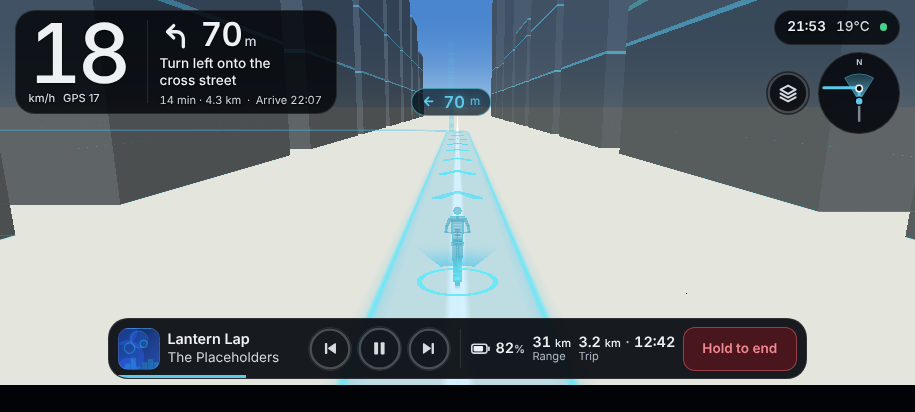
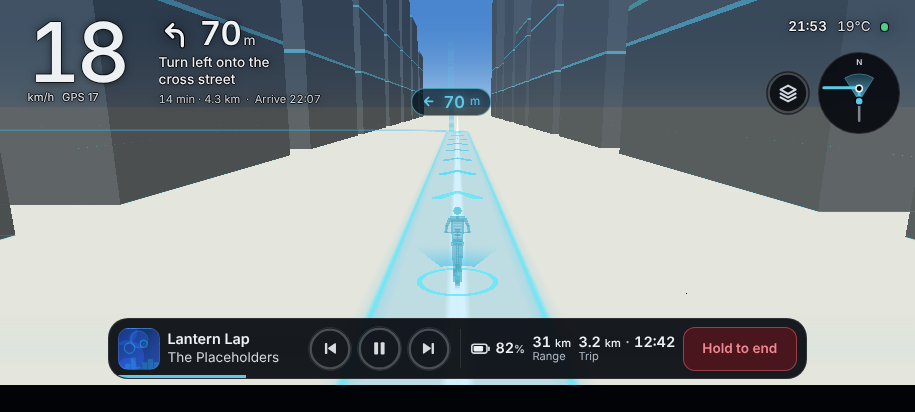
docs: describe the plate free top HUD, the shadow cap and the contrast numbers, re-shoot the HUD previews

Changed region(s): [[0.0, 0.0, 0.3672, 0.2913], [0.8262, 0.0, 1.0, 0.1165], [0.4896, 0.6408, 0.5202, 0.6699]]

diff --git a/docs/DESIGN_SYSTEM.md b/docs/DESIGN_SYSTEM.md
@@ -108,14 +108,19 @@ The scene can be a bright blue sky, sunlit pale ground or a dark street, and it 
 |---|---|---|---|
 | `plate.night` | `--wl-plate-night` | `0.74` | Opacity of a text plate in the dark |
 | `plate.day` | `--wl-plate-day` | `0.84` | Opacity in full daylight |
-| `shadow.text` | `--wl-shadow-text` | `0 0 1px rgba(0, 0, 0, 0.9), 0 1px 2px rgba(0, 0, 0, 0.6)` | A tight edge on glyphs, two pixels at most |
+| `shadow.text` | `--wl-shadow-text` | `0 0 1px rgba(0, 0, 0, 0.9), 0 1px 2px rgba(0, 0, 0, 0.6)` | A tight edge on the glyphs of text that sits on a plate, two pixels at most |
+| `shadow.scene` | `--wl-shadow-scene` | `1px 0 0`, `-1px 0 0`, `0 1px 0` and `0 -1px 0` at `rgba(0, 0, 0, 0.72)`, then `0 0 8px rgba(0, 0, 0, 0.55)` | The only aid on the top left navigation text and the top right status text, as a `text-shadow` |
+| `shadow.sceneIcon` | `--wl-shadow-scene-icon` | the same five layers as `drop-shadow()` filters | The same shadow for the turn arrow, the offline note icon and the connectivity dot |
 
-- **Plates** (`.wl-plate`). Each group of text over the scene sits on its own small plate of dark glass (`night950`), sized to the text: the speed and turn card top left, the status chip top right, the start caption, the map note and the dev overlay. The map settings button also sits on a plate so its icon reads on a bright sky. The opacity is `night + (day - night) * --wl-daylight`, one flat fill with a hairline border, no blur and no gradient, so it costs almost nothing on a mid range phone. The plate is a little more solid in sunlight and a little lighter at night.
+- **No plate on the top two groups.** The speed and turn text (top left) and the time, temperature and dot (top right) are bare on the scene: no plate, fill, border, box shadow, backdrop filter or gradient, and their sizes and spacing are unchanged. A shadow that follows the glyphs only keeps them readable. `.wl-hud-shadow` puts `shadow.scene` on the text and `.wl-hud-icon` puts `shadow.sceneIcon` on the arrow, the note icon and the dot. The shadow has two parts: a 1 pixel dark edge on four sides with no blur (a hairline outline) and one soft 8 pixel halo. It is a shadow, never a backdrop.
+- **Why the 1 pixel edge.** A soft halo on its own is almost invisible on thin strokes over a white sky: the first draft, a 1 pixel close shadow plus an 8 pixel halo at 0.65 and 0.55 opacity (the usual "subtle blurred shadow"), measures only 1.0:1 to 1.7:1 for the text colours at the glyph edge over pure white, because a halo that wide spreads a stroke 1 pixel across into a few percent of black. The 1 pixel edge is the least intrusive fix that reaches AA (it is at most a 1 pixel text stroke, drawn as four hard shadow offsets so it does not depend on `paint-order` support), and the soft halo stays as the subtle part. Over dark scenes the shadow is invisible and cannot lower contrast.
+- **Cap.** Every local shadow layer is capped at a 12 pixel blur radius, a 2 pixel offset and 0.9 opacity (`no-screen-darkening.test.ts` fails above any of them, and there is a test that proves it fails). The layers are in the tokens only, and the CSS rules refer to them by variable so a literal cannot slip past the cap.
+- **Plates** (`.wl-plate`). The few remaining groups of text over the scene sit on their own small plate of dark glass (`night950`), sized to the text: the start caption, the map note and the dev overlay. The map settings button also sits on a plate so its icon reads on a bright sky. The opacity is `night + (day - night) * --wl-daylight`, one flat fill with a hairline border, no blur and no gradient, so it costs almost nothing on a mid range phone. The plate is a little more solid in sunlight and a little lighter at night.
 - **Glass** (`.wl-glass`). The dock, the minimap and the map settings sheet keep their own glass fill, which covers only the panel itself.
-- **Text edge** (`.wl-hud-text`). A tight dark edge on the glyphs of plate text keeps them crisp in glare. It is never used as a backdrop.
-- **Adaptive colour.** Text over the scene uses only `text`, `text-secondary`, `caution` and `cyan`. Muted grey is for panels only. The turn arrow turns cyan when the turn is imminent.
-- **Contrast.** The plate's floor is chosen so that every text colour allowed on it passes WCAG AA over pure white, which is brighter than anything the scene can draw. `apps/web/src/hud/readability.test.ts` checks every text colour at daylight 0, 0.25, 0.5, 0.75 and 1 against pure white, pure black, the day palette and sky, a pale sunlit photographic ground (#e8e4d8, an assumed worst case, not measured on a real Google tile screenshot), the night palette and the bright hologram cyan, and the dock text on night and day glass. The layout check (`apps/web/scripts/layout-check.mjs`) does the same in Chrome with the colours the browser computed, while riding, at five sizes. The lowest ratios (night plate over pure white) are: `text` 8.2:1, `text-secondary` 6.5:1, `caution` 4.7:1 and `cyan` 4.8:1. Over pure black they are all above 10:1.
-- **Guard.** `apps/web/src/hud/no-screen-darkening.test.ts` fails if a scrim, a screen wide gradient, a full screen fill, a vignette or a wide text shadow comes back, in the CSS, the components, the tokens or the scene's post process. The layout check also fails if anything but the scene, the credits strip or an opened dialog paints more than 20 percent of the screen or a band across it.
+- **Adaptive colour.** Text over the scene uses only `text`, `text-secondary`, `caution` and `cyan`, and stays bright: muted grey is for panels only. The turn arrow turns cyan when the turn is imminent.
+- **Contrast model.** There is no standard for the contrast of a halo, so `apps/web/src/hud/readability.ts` (`glyphBackdrop`) models it conservatively. A glyph is one isolated stroke as thin as the thinnest stroke of that text (the smallest font size times a stem of about 0.1 em), every shadow layer is that stroke moved by its offset and blurred by a Gaussian of half its blur radius, and the pixel measured is the one touching the glyph, half a pixel outside its edge, on the worst of its four sides. Real text has neighbouring strokes that add to a halo, so this is a lower bound. Small text must reach 4.5:1 and large text (the speed and the turn distance) 3:1.
+- **Contrast numbers** (26 November 2026, modelled, WCAG ratio at the glyph edge, the weakest text in each colour group). Over pure white: primary text 8.7:1 (speed digits 10.1:1), secondary text 6.9:1, amber 5.0:1, the cyan arrow 5.4:1. Over a light sky (`#bcd9ee`, the noon horizon): 10.4:1, 8.2:1, 6.0:1 and 6.4:1. Over dark scenes (the night horizon): 17.9:1, 14.3:1, 10.4:1 and 10.6:1, and over pure black 18.5:1, 14.8:1, 10.7:1 and 10.9:1. The pale sunlit ground (`#e8e4d8`) sits between white and the light sky. `readability.test.ts` checks every text colour against pure white, the pale ground, the day palette and sky, the night palette, pure black and the hologram cyan, for the text shadow and the icon filter. The layout check (`apps/web/scripts/layout-check.mjs`) repeats the model in Chrome with the computed colours, font sizes and shadow values while riding at five sizes, and reports the lowest: speed digits 10.5:1 over white, 12.0:1 over the light sky and 18.5:1 over black, the weakest text (`km/h`, GPS speed, time left, arrival) 6.9, 8.2 and 14.8. Text still on a plate is checked at five daylight levels as before. The ground samples are assumed worst cases, and the whole model has not been checked on a real Google tile screenshot or in direct sun on a phone.
+- **Guard.** `apps/web/src/hud/no-screen-darkening.test.ts` fails if a scrim, a screen wide gradient, a full screen fill or a vignette comes back, in the CSS, the components, the tokens or the scene's post process, if a local shadow goes past the cap, if a `backdrop-filter` or a box shadow appears on the HUD, or if a plate, fill or border returns on the navigation or status components. The layout check also fails if anything but the scene, the credits strip or an opened dialog paints more than 20 percent of the screen or a band across it, or if the navigation or status group paints a fill, border, box shadow or backdrop filter.
 
 ## Futuristic look
 
@@ -161,8 +166,8 @@ Built in `apps/web/src/app/ride/page.tsx`, with the layout in `apps/web/src/hud/
 
 | Area | Content |
 |---|---|
-| Top left, one plate | The speed and the next turn on one small plate of dark glass, sized to the text. Left: the vehicle speed (the biggest number, digits about 15 percent of the screen height), and under it, small: `km/h` and `GPS 17`, the GPS speed shown separately, and the amber telemetry note when it applies. A hairline divider. Right: the turn arrow (cyan when the turn is imminent) and the distance to the turn, the street instruction, then one quiet line with the time and distance left and `Arrive 14:35` |
-| Top right | A status chip on a plate: local time, mock temperature and a small connectivity dot (green online, amber offline). Under it, the map settings button on its own plate beside a round plain SVG minimap about 82 px across at 915 by 412: route line, position dot and a heading cone. No tiles and no map data. The dev overlay and the quiet map note sit under the minimap and stop above the centre row |
+| Top left, bare text | The speed and the next turn as bare text on the scene, with a local glyph shadow and no plate. Left: the vehicle speed (the biggest number, digits about 15 percent of the screen height), and under it, small: `km/h` and `GPS 17`, the GPS speed shown separately, and the amber telemetry note when it applies. Right: the turn arrow (cyan when the turn is imminent) and the distance to the turn, the street instruction, then one quiet line with the time and distance left and `Arrive 14:35` |
+| Top right | The status as bare text with a glyph shadow and no plate: local time, mock temperature and a small connectivity dot (green online, amber offline). Under it, the map settings button on its own plate beside a round plain SVG minimap about 82 px across at 915 by 412: route line, position dot and a heading cone. No tiles and no map data. The dev overlay and the quiet map note sit under the minimap and stop above the centre row |
 | Centre | Clear for the 3D scene, with nothing drawn over it. The start prompt (the Start trip button, a "Light follows my clock" or "Real sun at the route" switch beside it, and a caption) appears low in the clear middle before a trip, and the dev controls (development and `?dev=1` only) sit below it. They are always one row of 44 px buttons, so nothing overlaps at any landscape size, and the Time button swaps that row for the time override page (Back, Live, Dawn, Noon, Sunset, Night, a time slider and a date field) |
 | Dock | One joined glass dock, 20 px corners, about 15 percent of the screen height, sized to its content and centred at the bottom with margin on both sides (never wider than 80 percent of the screen, or 42rem on small phones where the content needs it), with a hairline divider between two halves. Left: artwork tile, title and artist, previous, play or pause, next, and a thin progress line along the bottom of the half. Right: battery icon and percent, range, trip distance and time (`3.2 km · 12:40`), and End trip at the far right |
 | Credits strip | The reserved credits row below the dock: a darker band that nothing overlaps, holds the scene's attributions: the Google logo, data credits and Cesium ion logo with CesiumJS, or OpenFreeMap, OpenMapTiles and OpenStreetMap contributors with the fallback. The scene renders them into the strip and the HUD never covers it. Its minimum height follows the screen height (`clamp(1.5rem, 6.5dvh, 2rem)`) and grows with its content. A faint placeholder label shows only in development or with `?dev=1`, until the scene is ready |
@@ -175,19 +180,19 @@ Rules for this screen:
 - **Speed guard.** Above 8 km/h the media controls and End trip need a hold (0.6 s, and 0.9 s for End trip). The guard switches off below 5 km/h.
 - **Hold feedback that does not need animation.** While the guard is on, each media button shows a ring track that says a hold is needed. While a button is held the ring fills over the hold time, the button takes a cyan edge and a stronger fill, and the artist line says "Keep holding". End trip says "Hold to end", grows a red fill while held, and says "Keep holding". With reduced motion the ring and fill skip the growth and show complete as soon as the hold starts, so the filled state and the caption are still there.
 - **Missing data shows dashes**, never zero. An amber note with a small icon under the speed says when GPS is standing in for the scooter, and the GPS speed label turns amber.
-- **Small glass, never a backdrop.** The speed and turn card, the status chip and the map settings button sit on plates sized to their content, and the dock, minimap and dev controls are glass panels. Nothing paints across the screen apart from the credits strip.
+- **Small glass, never a backdrop.** The speed and turn text and the status text are bare with a shadow that follows the glyphs. The map settings button sits on a plate sized to its content, and the dock, minimap and dev controls are glass panels. Nothing paints across the screen apart from the credits strip.
 - **Minimap.** Plain drawn route only. While riding it follows the rider with the heading up, shows a clear heading cone (a 34 unit wedge opening 32 degrees either side, a gradient fill from 80 to 20 percent cyan with an outline), and a small N on the rim. Before and after a trip it shows the whole route inside the circle, north up.
-- **Contrast.** The top text sits on its plate (see "Text on the scene") and passes AA over pure white. The dock is more solid in daylight and fades smoothly with the sun. Sunlight readability on a real screen still needs a check on the phone.
+- **Contrast.** The top text carries a glyph shadow (see "Text on the scene") and passes AA at the glyph edge over pure white, in the model. The dock is more solid in daylight and fades smoothly with the sun. Sunlight readability on a real screen still needs a check on the phone.
 - **Fluid type.** Sizes use `clamp` with `dvh` and `vw` (see Typography). The dock values also scale with width, because the dock is the tightest row. The dock is sized to its content. The track title block has a fixed fluid width (about 15 percent of the screen width, at least 7.75 rem), so the dock does not change width from track to track, and at 667 by 375 the longest mock title still fits whole and a long artist line ends in an ellipsis. Neither pushes the media buttons or End trip off the screen, and nothing else clips.
-- **Motion.** The plates and the dock settle in when the screen appears (`.wl-enter`: a 360 ms fade and a 6 pixel rise, the dock 80 ms later), and the turn arrow fades to cyan when the turn is imminent.
+- **Motion.** The top groups and the dock settle in when the screen appears (`.wl-enter`: a 360 ms fade and a 6 pixel rise, the dock 80 ms later), and the turn arrow fades to cyan when the turn is imminent.
 - **Reduced motion.** See hold feedback above. The offline pulse and the entrance stop. Nothing else on this screen animates.
 - **No speed limit sign yet.** There is no road speed limit data in milestone 1 (speed zones are phase 4, out of scope), so no sign is drawn and none is invented. A small sign under the speed is a later item for when speed zone data exists.
 - **Copy.** Sentence case, no emoji, no em dashes. Speed in km/h, distances under 1 km in metres rounded to 10 m, longer ones in km with one decimal, 24 hour time.
 - **Variants.** `short:` is for screens up to 520 px tall and `tight:` is for up to 400 px tall. The riding screen no longer needs them because its sizes are fluid, and they remain for other screens.
 
-Screenshots of the screen, taken from a production build with headless Chrome, are in [`docs/images/`](images/): [riding at 915 by 412](images/ride-915x412-riding.png), [start at 915 by 412](images/ride-915x412-start.png), [telemetry lost at 915 by 412](images/ride-915x412-fallback.png) (taken with `?dev=1`, so the dev controls show) and [riding at 1280 by 720](images/ride-1280x720-riding.png) and [the trip summary at 915 by 412](images/ride-915x412-summary.png). The same screen with the dev time override at [dawn](images/ride-915x412-dawn.png), [noon](images/ride-915x412-noon.png), [sunset](images/ride-915x412-sunset.png) and [night](images/ride-915x412-night.png), taken at 915 by 412 with `?dev=1&time=dawn` and so on, for Berlin on 25 November. Day shows the dock at its most solid and a bluer scene, sunset and dawn show the warm glow at the horizon and a mid fill, and night is the darkest with the most see-through dock. These were re-shot for the HUD redesign on 26 November 2026. In headless Chrome the fallback map's tiles do not load, so the scene there is the sky, the light and the hologram only.
+Screenshots of the screen, taken from a production build with headless Chrome, are in [`docs/images/`](images/): [riding at 915 by 412](images/ride-915x412-riding.png), [start at 915 by 412](images/ride-915x412-start.png), [telemetry lost at 915 by 412](images/ride-915x412-fallback.png) (taken with `?dev=1`, so the dev controls show) and [riding at 1280 by 720](images/ride-1280x720-riding.png) and [the trip summary at 915 by 412](images/ride-915x412-summary.png). The same screen with the dev time override at [dawn](images/ride-915x412-dawn.png), [noon](images/ride-915x412-noon.png), [sunset](images/ride-915x412-sunset.png) and [night](images/ride-915x412-night.png), taken at 915 by 412 with `?dev=1&time=dawn` and so on, for Berlin on 25 November. Day shows the dock at its most solid and a bluer scene, sunset and dawn show the warm glow at the horizon and a mid fill, and night is the darkest with the most see-through dock. These were re-shot for the HUD redesign on 26 November 2026, before the top left and top right groups lost their plates, so they still show those two plates. The preview shots below are the current look. In headless Chrome the fallback map's tiles do not load, so the scene there is the sky, the light and the hologram only.
 
-The redesigned HUD over the procedural preview scene (`/dev/holo-preview?dev=1&hud=1&engine=cesium|maplibre&time=...&along=110`, no Google tiles and no network), with the real `HudFrame` and panels and fixed mock values: CesiumJS at [noon](images/hud-preview-cesium-noon.png), [sunset](images/hud-preview-cesium-sunset.png) and [night](images/hud-preview-cesium-night.png), the same noon with [the effect off](images/hud-preview-cesium-noon-fx-off.png), and MapLibre at [noon](images/hud-preview-maplibre-noon.png), [sunset](images/hud-preview-maplibre-sunset.png) and [night](images/hud-preview-maplibre-night.png). The pale noon buildings are the worst case for the top text, and the scene stays clear to every edge.
+The redesigned HUD over the procedural preview scene (`/dev/holo-preview?dev=1&hud=1&engine=cesium|maplibre&time=...&along=110`, no Google tiles and no network), with the real `HudFrame` and panels and fixed mock values: CesiumJS at [noon](images/hud-preview-cesium-noon.png), [sunset](images/hud-preview-cesium-sunset.png) and [night](images/hud-preview-cesium-night.png), the same noon with [the effect off](images/hud-preview-cesium-noon-fx-off.png), and MapLibre at [noon](images/hud-preview-maplibre-noon.png), [sunset](images/hud-preview-maplibre-sunset.png) and [night](images/hud-preview-maplibre-night.png). The pale noon buildings are the worst case for the top text, and the scene stays clear to every edge. These seven were re-shot on 26 November 2026 for the plate free top groups.
 
 ## Using the tokens
 

diff --git a/CHANGELOG.md b/CHANGELOG.md
@@ -58,6 +58,10 @@ All notable changes to this project are recorded here. The format follows [Keep 
 
 - Fresh clone and deploy test (task 15, 2026-11-26). A new clone of `dev` was followed step by step from the README and the deploying and maintaining docs with no token and no `.env` file: install, format check, lint, typecheck, 1,130 tests, build, `pnpm start`, then `/ride` in headless Chrome. It all passed. The fallback map ran, the HUD drew, the manifest and the service worker were served and activated, the credits strip named OpenFreeMap, and the map settings sheet showed Google 3D tiles as disabled with the "needs a Cesium ion token" sentence. The layout check passed at all five sizes. Fixes to the docs: the README status line no longer says the riding screen is still to come, and the README and `docs/DEPLOYING.md` now give the Node range (22.12 or newer 22.x), the `PORT` variable for `pnpm start`, the fact that `pnpm dev` moves to a free port but `pnpm start` does not, what to open and tap, the amber tile note, and a Node.js Version 22.x step and the "include source files outside the Root Directory" setting for Vercel. The troubleshooting list was wrong that a Node mismatch fails the install (it only warns, and Node 20 and 26 also passed every check), and it now covers the missing build, a busy port, the tile note and a missing install. Section 4 of `docs/DEPLOYING.md` no longer recommends one self-host path: it lists a Node server (works today), the static export and Docker with what was tried, and the maintainer has not decided yet. `docs/MAINTAINING.md` has a repeatable fresh clone check, says the `dev` ruleset is optional, and warns that until `dev` is merged a clone of `main` holds only the licence. `next dev` writes `apps/web/AGENTS.md`, so it is now ignored by git.
 - Static export check (not enabled, the default build is unchanged): `output: "export"` builds and the ride screen, manifest, service worker and offline page work from `apps/web/out/`. It needs a server rule for `/ride` (or `trailingSlash: true`), the `.mjs` and `.wasm` MIME types, the `no-cache` header on the worker scripts set in the server, and the root of a domain, because the app uses absolute paths. Details are in `docs/DEPLOYING.md`.
+- Top HUD without plates (2026-11-26), after the maintainer did not like the dark background behind the top two panels. The top left speed and turn text and the top right time, temperature and dot lose their dark plate, fill and border and sit bare on the scene. A shadow that follows the glyphs keeps them readable: `.wl-hud-shadow` (a `text-shadow`) and `.wl-hud-icon` (a `drop-shadow` filter on the turn arrow, the offline note icon and the connectivity dot), from the new `shadow.scene` and `shadow.sceneIcon` tokens: a 1 pixel dark edge on four sides at 0.72 opacity plus one soft 8 pixel halo at 0.55. No fill, gradient, box shadow or backdrop filter. Sizes, spacing, tap targets and the hold to press behaviour are unchanged, and the old divider is now a 1 pixel spacer. The map settings button, the minimap, the dock, the credits strip, the start caption, the map note and the dev overlay are unchanged.
+- Readability of that shadow is modelled, not assumed. A soft halo alone (a 1 pixel close shadow plus an 8 pixel halo at 0.65 and 0.55) measured only 1.0:1 to 1.7:1 at the glyph edge over pure white, well under AA, so the 1 pixel edge was added (the least intrusive fix: at most a 1 pixel stroke, drawn as four hard shadow offsets). Modelled at the glyph edge with the final shadow, the weakest text per colour group is, over pure white, 8.7:1 primary (speed digits 10.1:1), 6.9:1 secondary, 5.0:1 amber and 5.4:1 for the cyan arrow; over a light sky (`#bcd9ee`) 10.4, 8.2, 6.0 and 6.4; over the night horizon 17.9, 14.3, 10.4 and 10.6. Small text needs 4.5:1 and the speed and turn distance 3:1. This is a model, not a measurement: a real sunlit Samsung Galaxy A35 screen has not been checked.
+- The guard test `no-screen-darkening.test.ts` still bans any scrim, screen wide gradient, full screen fill and vignette, and now allows a documented local glyph shadow capped at a 12 pixel blur, a 2 pixel offset and 0.9 opacity (a test proves it fails above the cap). It also fails on a plate, fill or border on the navigation and status components and on any `backdrop-filter` or box shadow on the HUD. `readability.test.ts` models the shadow over white, light sky, pale ground and dark scenes for the text shadow and the icon filter, and the layout check measures bare glyphs with the computed shadow over pure white, a light sky and pure black, and fails if the navigation or status group paints a fill, border, box shadow or backdrop filter. The model for the layout check lives in `apps/web/scripts/halo-model.mjs` and `halo-model.test.ts` keeps it in step with `readability.ts`. The layout check also takes `CDP_PORT` for a free debugging port.
+- Re-shot the seven `docs/images/hud-preview-*.png` screenshots from the procedural preview (`/dev/holo-preview?dev=1&hud=1`, no Google tiles and no network). The `ride-*.png` and `map-settings-sheet-915x412.png` screenshots still show the old plates and are not yet re-shot.
 - HUD redesign (2026-11-26), after the maintainer found the daylight scrim jarring. The scene now fills the screen with nothing darkening it, and the HUD is a few small, quiet pieces of dark glass. Top left, the speed and the next turn share one plate sized to the text: the speed is smaller (`speed` is now `clamp(3rem, 20dvh, 6.5rem)`, digits about 15 percent of the screen height, down from about 30), with `km/h` and the GPS speed under it, and beside it the turn arrow (cyan when the turn is imminent), the distance (`hudTurn` is now `clamp(1.25rem, 8dvh, 2.5rem)`), the street and one quiet line with the time and distance left and the arrival. Top right, a status chip holds the time, temperature and connectivity dot, and the map settings button sits on its own plate beside a slightly smaller minimap. The dock is a little shorter. The map settings sheet is only as tall as its content. The plates and the dock settle in with a short fade (off with reduced motion). Hold to press, the speed guard, the joined centred dock, fullscreen, the credits strip, the beacon label clamp and the Google tiles rules are unchanged. There is no road speed limit data in milestone 1, so no speed limit sign was added; it is a later item for when speed zone data exists.
 - With the visual effect on, the night tint of photographic tiles dims them to about a third and cools them instead of crushing them toward black (from 0.09 to 0.19 up to 0.3 to 0.5).
 - Model policy: this redesign was built with Opus 5.5 at the maintainer's explicit request, as a one-off exception to Amendment 2 (Sonnet 5.5 for all work except the critic). The brief is unchanged.

diff --git a/docs/ARCHITECTURE.md b/docs/ARCHITECTURE.md
@@ -51,10 +51,13 @@ apps/web/src/
   hud/
     HudFrame            the layout only (top left, top right, centre, dock, credits rows), shared by the
                         ride page and the dev preview. Paints no backdrop of its own
-    NavigationPanel     top left, one small plate: speed, GPS speed and unit, a divider, then the turn
-                        arrow (cyan when imminent), distance, street, time and distance left, arrival
-    StatusCluster       top right: a status chip on a plate with local time, mock temperature and the dot
-    readability.ts      pure: plate opacity by daylight and the WCAG maths for the contrast tests
+    NavigationPanel     top left, bare text with a glyph shadow and no plate: speed, GPS speed and unit,
+                        then the turn arrow (cyan when imminent), distance, street, time and distance
+                        left, arrival
+    StatusCluster       top right: bare text with a glyph shadow and no plate: local time, mock
+                        temperature and the dot
+    readability.ts      pure: plate opacity by daylight, the glyph shadow model and the WCAG maths for
+                        the contrast tests
     Minimap             top right: round plain SVG route line, position dot, heading cone, N. No tiles
     Dock                one joined glass dock, content sized and centred, with a hairline divider between its two halves
     MediaPanel          dock, left half: artwork, title, artist, previous, play or pause, next, progress line
